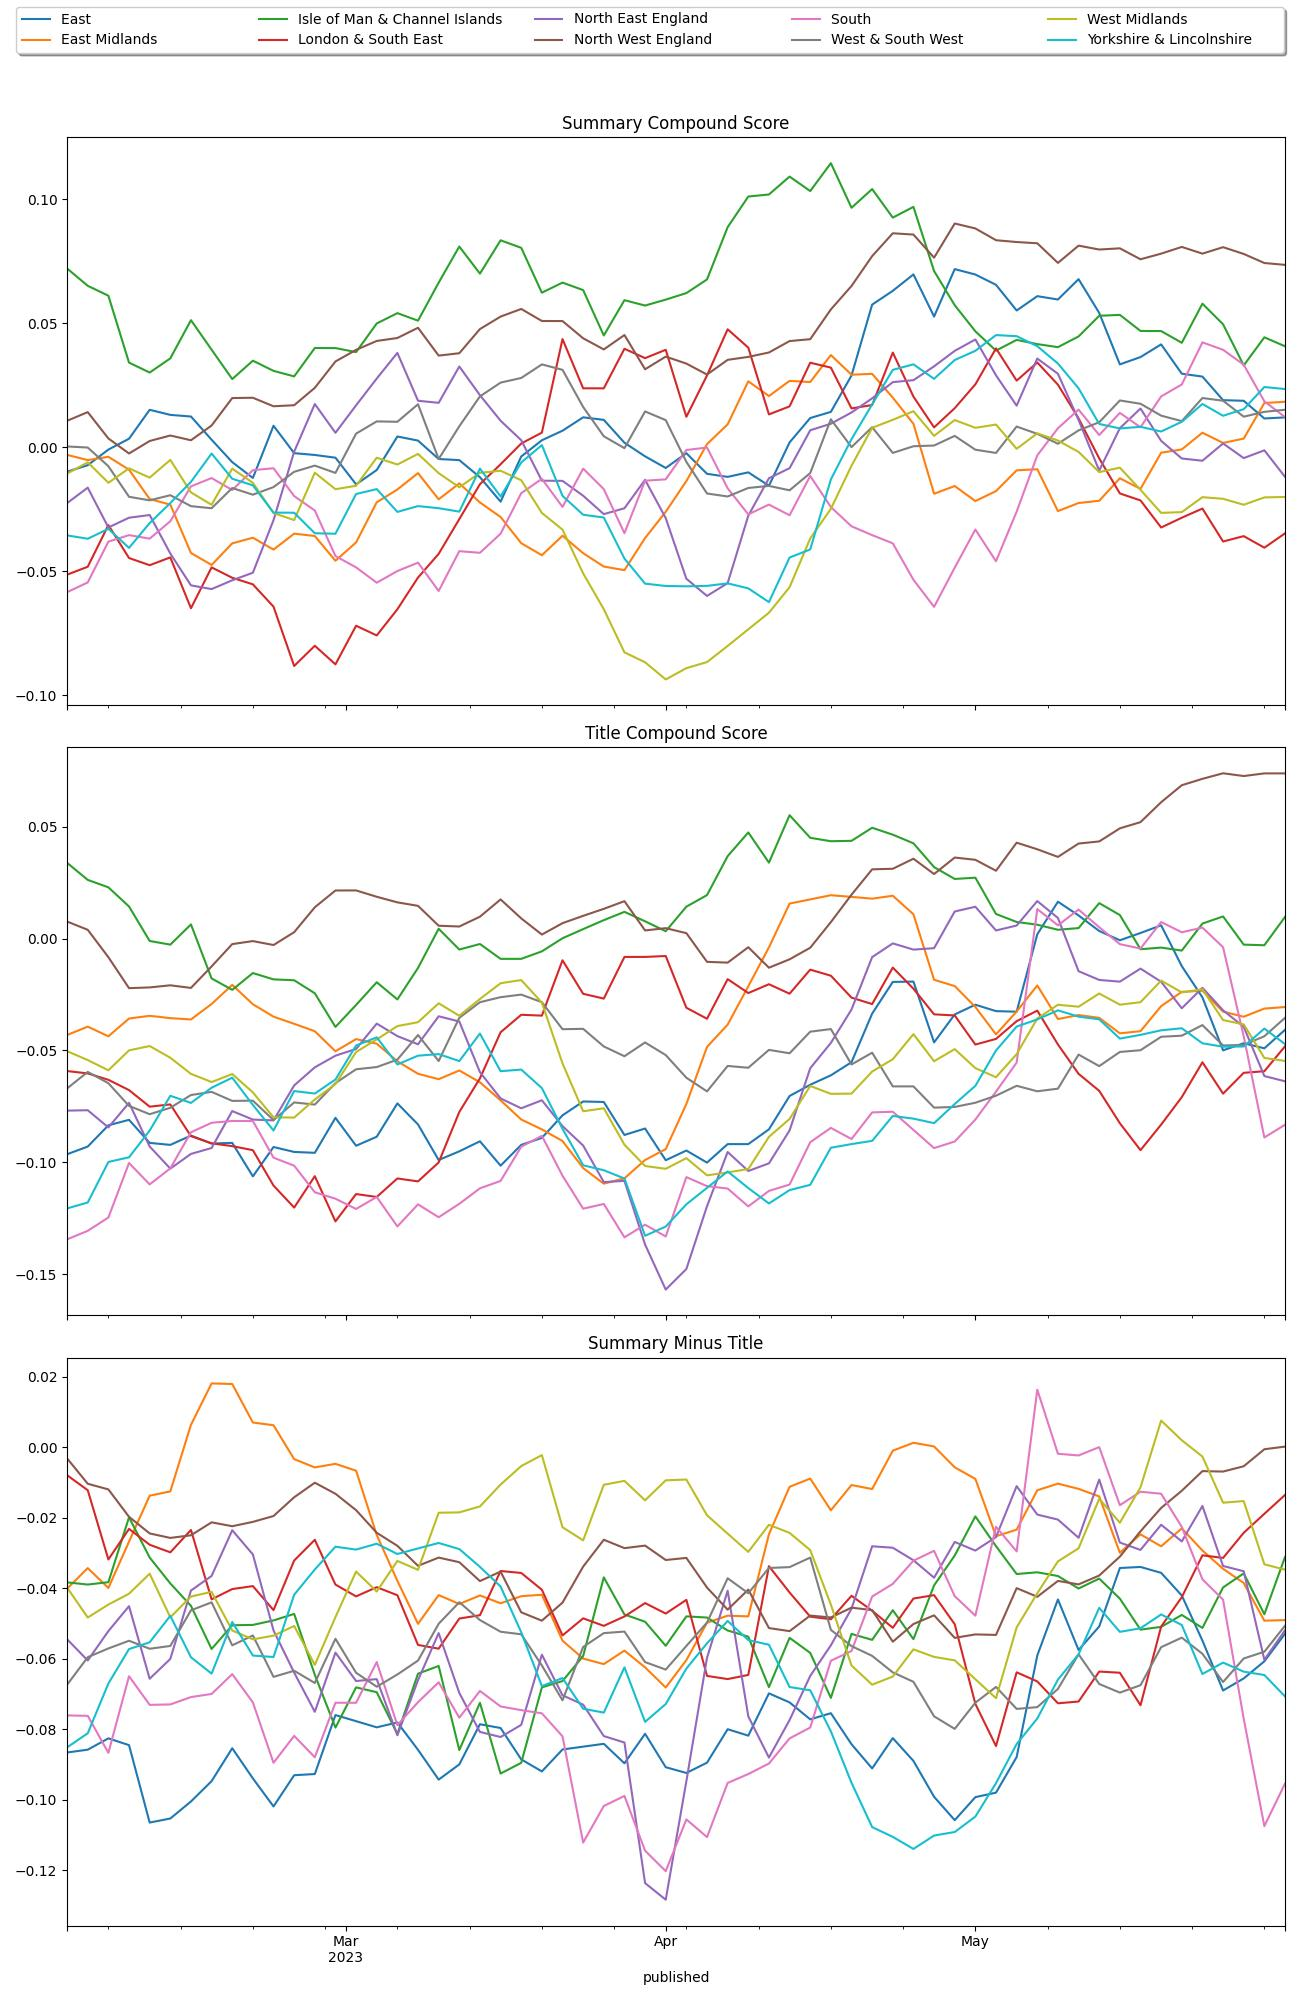
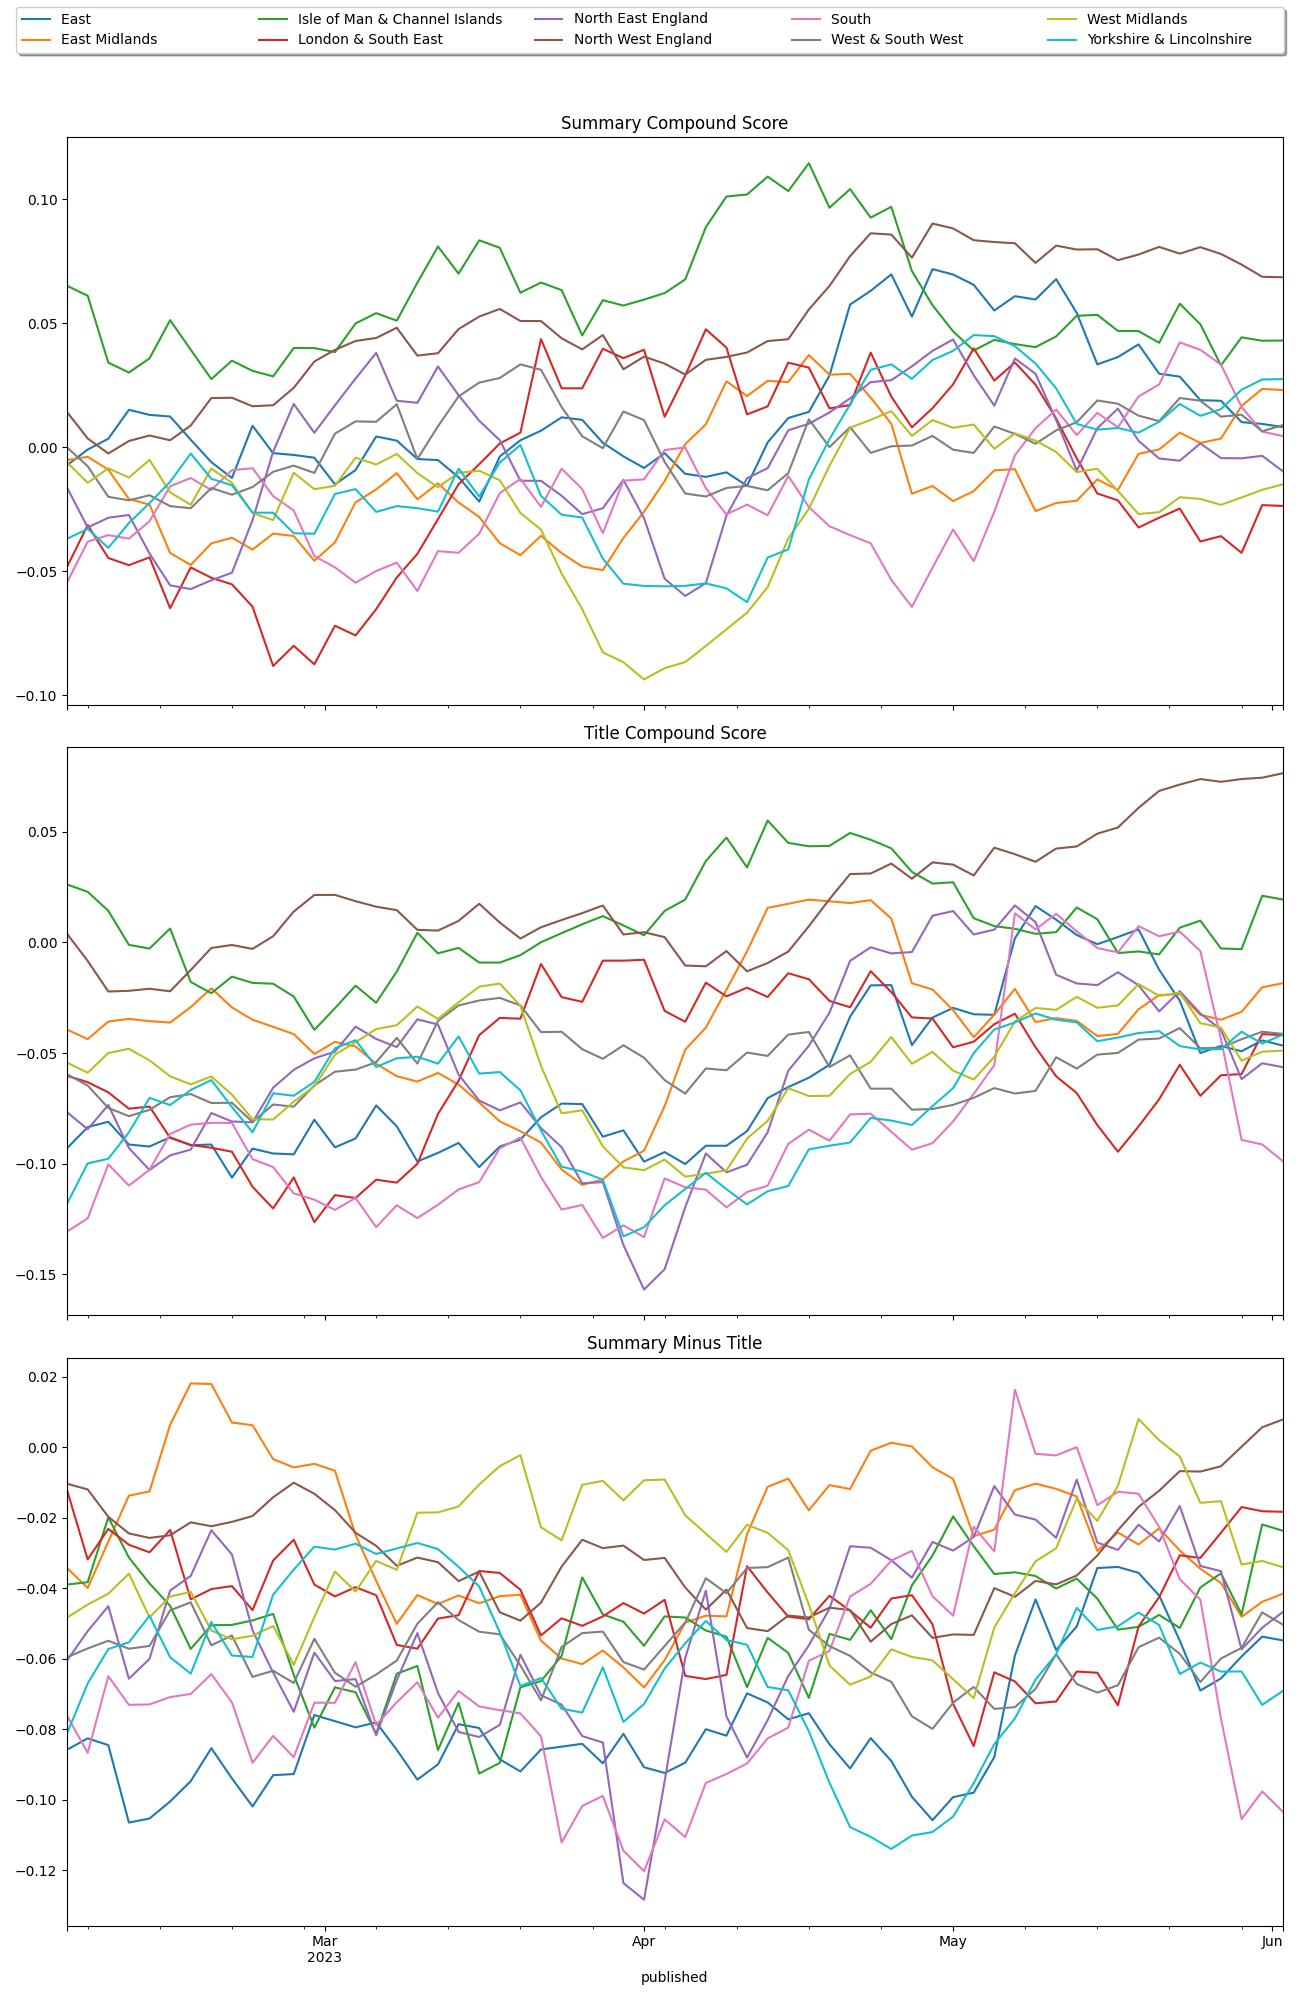
at 2023-06-02 10:51 ran: [Stage: 'complete-basic_report']

diff --git a/reports/complete/latest.md b/reports/complete/latest.md
@@ -1,12 +1,12 @@
-| region                        | published                  | summary                                                                                                 | title                                                      | url                                  |   summary_compound_score |   title_compound_score |   summary_minus_title |
-|:------------------------------|:---------------------------|:--------------------------------------------------------------------------------------------------------|:-----------------------------------------------------------|:-------------------------------------|-------------------------:|-----------------------:|----------------------:|
-| East                          | 2023-06-01 05:25:08        | A replica rocket arrives in Southampton on the first leg of a UK tour to promote the space industry.    | Space Agency rocket embarks on UK tour                     | /news/uk-england-hampshire-65766005  |                   0.3818 |                 0      |               -0.3818 |
-| East Midlands                 | 2023-06-01 09:03:07.601000 | Police find a telescopic truncheon and several containers filled with cannabis at a house.              | Man questioned after illegal baton and drugs seized        | /news/articles/c29zpn23d34o          |                   0      |                -0.6124 |               -0.6124 |
-| Isle of Man & Channel Islands | 2023-06-01 05:30:16        | The project is using an app to show boatowners areas of seagrass to avoid while anchoring.              | Seabed mapping project helping to protect seagrass         | /news/world-europe-guernsey-65763744 |                  -0.296  |                 0.5859 |                0.8819 |
-| London & South East           | 2023-06-01 08:07:28.329000 | Michael Leigh is one of only six people in the UK to hold a ninth dan.                                  | Coach, 90, awarded judo's second highest grade             | /news/articles/cjjy3wq27y6o          |                   0      |                 0.4019 |                0.4019 |
-| North East England            | 2023-06-01 08:01:36        | Two people were seriously injured in a car crash following a police pursuit.                            | Police referred to watchdog after two hurt in crash        | /news/uk-england-tees-65774564       |                  -0.7269 |                -0.7269 |                0      |
-| North West England            | 2023-06-01 08:45:31        | Lancaster City Council will look at the benefits of it against any disturbance to birdlife and fishing. | Wind farm proposed off Lancashire coast                    | /news/uk-england-lancashire-65756566 |                   0      |                 0      |                0      |
-| South                         | 2023-06-01 08:55:09        | A man is arrested on suspicion of manslaughter and eight others are treated for injuries.               | Girl and boy die after Bournemouth beach incident          | /news/uk-england-dorset-65771464     |                  -0.6908 |                -0.5994 |                0.0914 |
-| West & South West             | 2023-06-01 08:37:16        | Devon and Cornwall Police launch a competition for children to name their tractor.                      | Competition to name police tractor                         | /news/uk-england-devon-65769452      |                   0      |                 0      |                0      |
-| West Midlands                 | 2023-06-01 09:19:14.197000 |                                                                                                         | Coady to return after Everton loan spell                   | /sport/articles/c5193l9z7xno         |                   0      |                 0      |                0      |
-| Yorkshire & Lincolnshire      | 2023-06-01 08:59:54.218000 |                                                                                                         | 'I would like to say sorry to everyone we failed' - Cooper | /sport/articles/crgl5mz5mr4o         |                   0      |                -0.2732 |               -0.2732 |
+| region                        | published                  | summary                                                                                                                 | title                                                 | url                                  |   summary_compound_score |   title_compound_score |   summary_minus_title |
+|:------------------------------|:---------------------------|:------------------------------------------------------------------------------------------------------------------------|:------------------------------------------------------|:-------------------------------------|-------------------------:|-----------------------:|----------------------:|
+| East                          | 2023-06-02 08:52:29        | Science minister George Freeman thinks the challenge is set to fail but says it is worth testing.                       | Government 'will probably lose' Covid legal case      | /news/uk-politics-65784392           |                   0.2732 |                -0.296  |               -0.5692 |
+| East Midlands                 | 2023-06-02 08:42:36.221000 |                                                                                                                         | Aurier signs new contract until 2024                  | /sport/articles/cw0p5e84dkpo         |                   0      |                 0      |                0      |
+| Isle of Man & Channel Islands | 2023-06-02 08:06:59        | Paul Jordan's attempt to complete Thursday's Isle of Man TT qualifying session is thwarted by missing an electric tram. | Missed electric tram thwarts TT rider's practice plan | /sport/northern-ireland/65784535     |                  -0.3182 |                -0.3818 |               -0.0636 |
+| London & South East           | 2023-06-02 09:15:45.407000 | Fire officials said that 10 hectares of the National Trust-owned Frensham Common had been burnt.                        | Firefighters to conclude operation after wildfire     | /news/articles/cq5g0rg9pk1o          |                  -0.34   |                 0      |                0.34   |
+| North East England            | 2023-06-02 07:20:43        | The RNLI says it is the fourth call-out on the causeway this year.                                                      | Rescue after child and adults trapped on causeway     | /news/uk-england-tyne-65785351       |                   0      |                -0.0258 |               -0.0258 |
+| North West England            | 2023-06-02 09:19:47.887000 |                                                                                                                         | Avram Glazer expected at FA Cup final                 | /sport/articles/c258nj02947o         |                   0      |                 0      |                0      |
+| South                         | 2023-06-02 08:43:53        | Olivia Maunder was told her pain was psychological by doctors at Frimley Park Hospital.                                 | Girl given months to live after cancer misdiagnosis   | /news/uk-england-hampshire-65781279  |                  -0.5106 |                -0.6597 |               -0.1491 |
+| West & South West             | 2023-06-02 08:41:21        | Wiltshire Police step up patrols in a "relentless"operation after a steep rise in knife crime.                          | Dozens of arrests in knife crime operation            | /news/uk-england-wiltshire-65785952  |                  -0.5423 |                -0.7506 |               -0.2083 |
+| West Midlands                 | 2023-06-02 09:11:25        | A dispersal order is in place as large crowds are expected to remember Paul Skidmore.                                   | Motorcyclist's funeral to be policed                  | /news/uk-england-birmingham-65786686 |                   0      |                -0.3612 |               -0.3612 |
+| Yorkshire & Lincolnshire      | 2023-06-02 09:11:25        | A dispersal order is in place as large crowds are expected to remember Paul Skidmore.                                   | Motorcyclist's funeral to be policed                  | /news/uk-england-birmingham-65786686 |                   0      |                -0.3612 |               -0.3612 |
